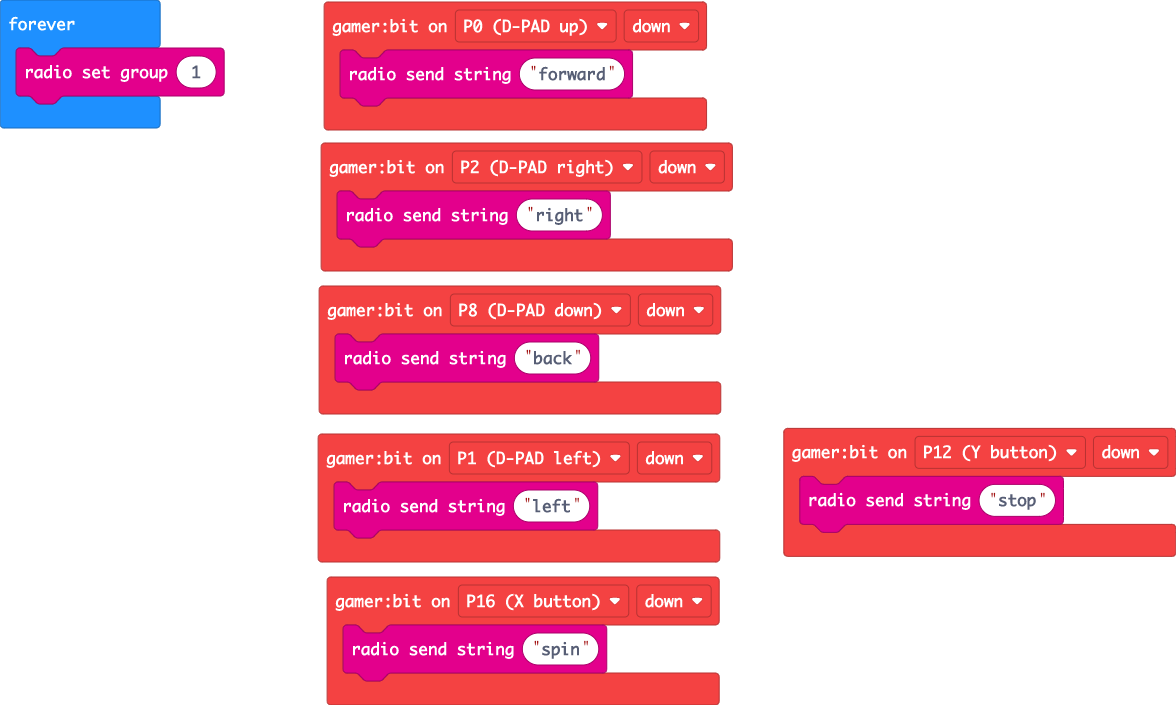
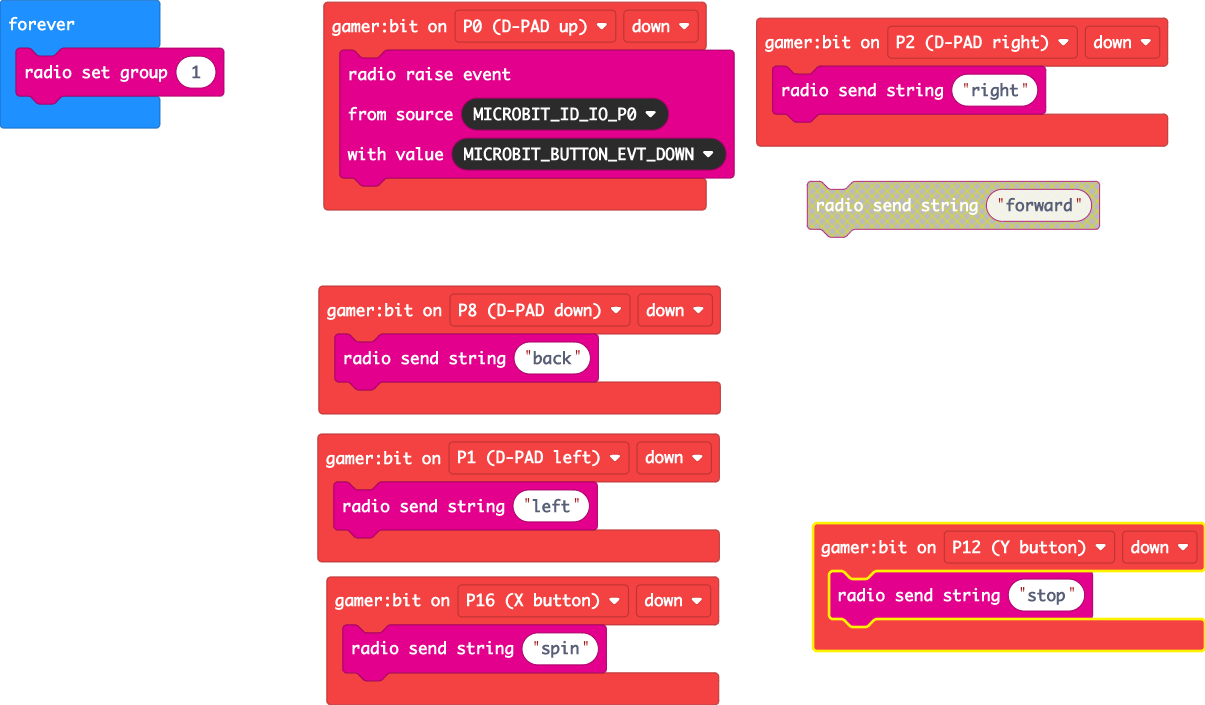
Trying to test only sending radio signal while holding button now

diff --git a/main.ts b/main.ts
@@ -14,7 +14,10 @@ gamerbit.onEvent(GamerBitPin.P2, GamerBitEvent.Down, function () {
     radio.sendString("right")
 })
 gamerbit.onEvent(GamerBitPin.P0, GamerBitEvent.Down, function () {
-    radio.sendString("forward")
+    radio.raiseEvent(
+    EventBusSource.MICROBIT_ID_IO_P0,
+    EventBusValue.MICROBIT_BUTTON_EVT_DOWN
+    )
 })
 basic.forever(function () {
     radio.setGroup(1)
